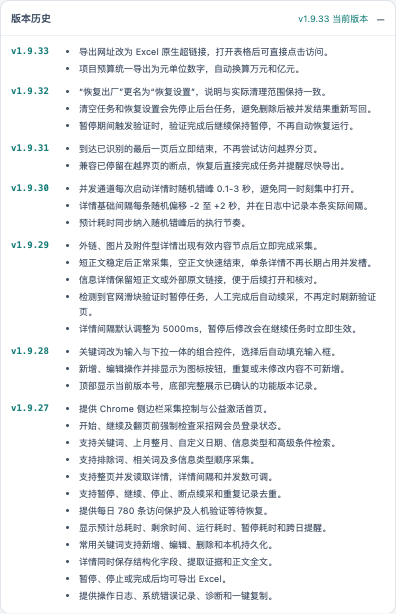
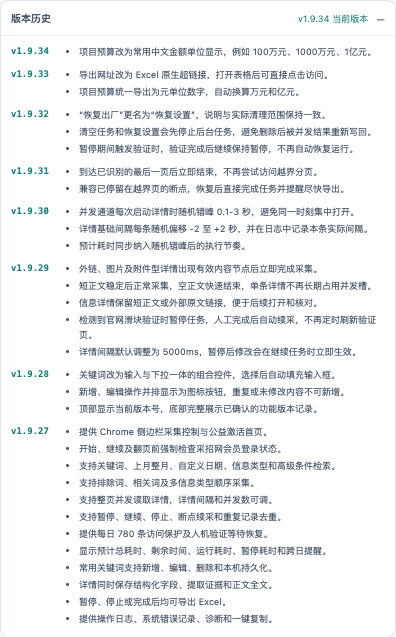
feat: v1.9.34 优化预算金额显示

diff --git a/xlsx-export.js b/xlsx-export.js
@@ -26,10 +26,6 @@ function cell(ref, value, style = 0) {
   return `<c r="${ref}" t="inlineStr" s="${style}"><is><t${/^\s|\s$/.test(String(value ?? '')) ? ' xml:space="preserve"' : ''}>${text}</t></is></c>`;
 }
 
-function numberCell(ref, value) {
-  return `<c r="${ref}" t="n" s="0"><v>${value}</v></c>`;
-}
-
 export function normalizeBudget(value) {
   const compact = String(value ?? '').trim().replace(/[\s,，￥¥]/g, '');
   if (!compact || /[%％]/.test(compact)) return null;
@@ -40,6 +36,18 @@ export function normalizeBudget(value) {
   const multiplier = /亿(?:元)?/.test(compact) ? 100000000 : /万(?:元)?/.test(compact) ? 10000 : 1;
   const normalized = Math.round((amount * multiplier + Number.EPSILON) * 100) / 100;
   return Number.isSafeInteger(normalized) || normalized < Number.MAX_SAFE_INTEGER ? normalized : null;
+}
+
+function readableAmount(value) {
+  return String(Math.round((value + Number.EPSILON) * 100) / 100);
+}
+
+export function formatBudget(value) {
+  const yuan = normalizeBudget(value);
+  if (yuan === null) return '';
+  if (yuan >= 100000000) return `${readableAmount(yuan / 100000000)}亿元`;
+  if (yuan >= 10000) return `${readableAmount(yuan / 10000)}万元`;
+  return `${readableAmount(yuan)}元`;
 }
 
 function isExternalUrl(value) {
@@ -56,8 +64,7 @@ function worksheet(records) {
       const ref = `${columnName(index)}${rowIndex + 1}`;
       const header = HEADERS[index];
       if (rowIndex && header === '项目预算') {
-        const budget = normalizeBudget(value);
-        return budget === null ? cell(ref, '') : numberCell(ref, budget);
+        return cell(ref, formatBudget(value));
       }
       if (rowIndex && header === '网址' && isExternalUrl(value)) {
         const relationshipId = `rId${relationships.length + 1}`;

diff --git a/sidepanel.html b/sidepanel.html
@@ -13,7 +13,7 @@
           <img class="activation-logo" src="logo.svg" alt="采招网采集助手 logo">
           <div>
             <div class="brand-kicker">BIDCENTER / COLLECTOR</div>
-            <strong class="brand-title">采招网采集助手 <span class="version-badge" data-app-version>v1.9.33</span></strong>
+            <strong class="brand-title">采招网采集助手 <span class="version-badge" data-app-version>v1.9.34</span></strong>
           </div>
         </header>
 
@@ -55,7 +55,7 @@
         <img class="brand-logo" src="logo.svg" alt="采招网采集助手 logo">
         <div class="brand-copy">
           <div class="brand-kicker">BIDCENTER / COLLECTOR</div>
-          <h1 class="brand-title">采招网采集助手 <span class="version-badge" data-app-version>v1.9.33</span></h1>
+          <h1 class="brand-title">采招网采集助手 <span class="version-badge" data-app-version>v1.9.34</span></h1>
         </div>
         <span id="status-dot" class="status-dot" aria-label="任务状态" title="任务状态"></span>
       </header>
@@ -204,8 +204,14 @@
       </section>
 
       <details class="version-history">
-        <summary><span>版本历史</span><small>v1.9.33 当前版本</small></summary>
+        <summary><span>版本历史</span><small>v1.9.34 当前版本</small></summary>
         <div class="version-history-list">
+          <article>
+            <strong>v1.9.34</strong>
+            <ul>
+              <li>项目预算改为常用中文金额单位显示，例如 100万元、1000万元、1亿元。</li>
+            </ul>
+          </article>
           <article>
             <strong>v1.9.33</strong>
             <ul>

diff --git a/README.md b/README.md
@@ -75,7 +75,7 @@
 - 每日访问保护：按本机自然日统计插件详情访问，在 780 条处暂停，给平台 800 条上限保留缓冲。
 - 人机验证处理：检测到滑块时暂停整个任务并打开验证页，用户手动完成后自动续采；纯访问频控提示则冷却后重试。
 - 完整内容留存：除结构化字段外，还保存详情页正文全文和字段证据。
-- Excel 导出：暂停、停止或完成后均可导出当前已保存结果；网址可直接点击，项目预算按元导出为数字。
+- Excel 导出：暂停、停止或完成后均可导出当前已保存结果；网址可直接点击，项目预算使用常用中文金额单位。
 - 操作日志与系统诊断：记录每条自动操作、字段缺失和插件运行错误，可一键复制给开发者。
 
 ## 安装方法
@@ -123,7 +123,7 @@ Excel 保留常用招投标字段，并尽量提取：
 
 页面没有对应字段时保持空白，不使用无依据内容补齐。
 
-项目预算统一以元为单位导出为数值，例如 `100万元` 导出为 `1000000`、`1.2亿元` 导出为 `120000000`。无法唯一确定的区间、多个金额或“未公布”等内容保持空白，避免误算。
+项目预算按常用中文金额单位导出，例如 `1000000元` 显示为 `100万元`、`10000000元` 显示为 `1000万元`、`100000000元` 显示为 `1亿元`。低于一万元时保留元单位；无法唯一确定的区间、多个金额或“未公布”等内容保持空白，避免误算。
 
 ## 数据、权限与隐私
 
@@ -162,6 +162,10 @@ docs/screenshots/      GitHub 产品截图
 - 仓库不包含采招网官方会员导出模板、用户采集数据、账号 Cookie、Token 或其他个人凭据。
 
 ## 更新记录
+
+### 2026-08-15 · v1.9.34
+
+- 项目预算改为常用中文金额单位显示：百万元显示为 `100万元`，千万元显示为 `1000万元`，亿元及以上显示为亿元。
 
 ### 2026-08-15 · v1.9.33
 
